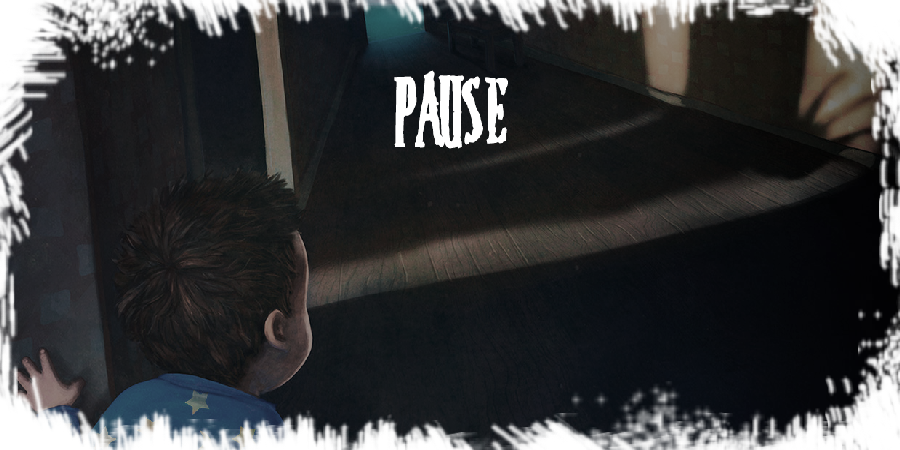
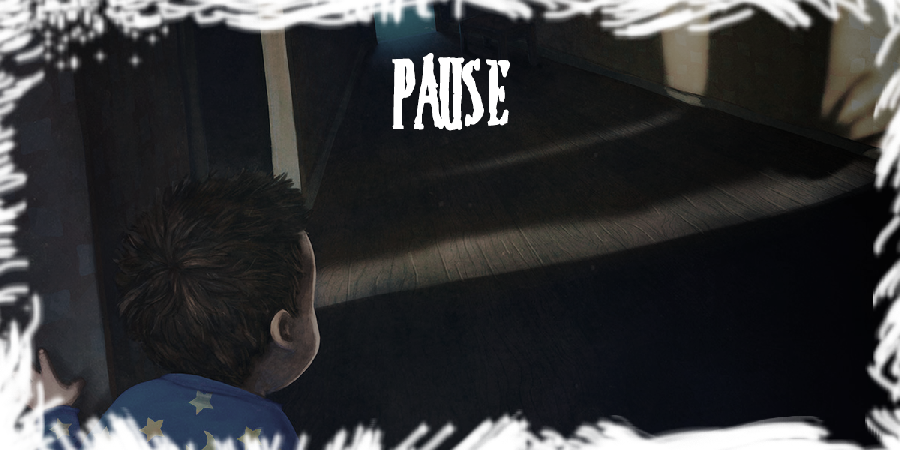
Рефакторинг меню

diff --git a/MyChildhoodNightmare/menu.cpp b/MyChildhoodNightmare/menu.cpp
@@ -2,7 +2,6 @@
 #include <iostream>
 
 static const sf::Vector2f RESOLUTION = { 1366, 768 };
-const sf::Vector2f GAMENAME_POS = { RESOLUTION.x / 2.0f, 220 };
 const float ICON_HORIZONTAL_MARGIN = 35;
 const float ICON_VERTICAL_MARGIN = 3;
 const float MENU_TOP_MARGIN = 400;
@@ -19,14 +18,6 @@ bool Menu::InitMenuItems()
 		gameName.setSize(GAMENAME_SIZE);
 		gameName.setOrigin(GAMENAME_SIZE.x / 2.0f, GAMENAME_SIZE.y);
 		gameName.setTexture(&gameNameTexture);
-		gameName.setPosition(GAMENAME_POS);
-
-		menuWrapper.setSize(RESOLUTION);
-		menuWrapper.setTexture(&mainWrapperTexture);
-
-		pauseWrapper.setSize(PAUSE_MENU_SIZE);
-		pauseWrapper.setOrigin( PAUSE_MENU_SIZE.x / 2.0f, PAUSE_MENU_SIZE.y / 2.0f );
-		pauseWrapper.setTexture(&pauseWrapperTexture);
 
 		menuIcon.setSize(ICON_SIZE);
 		menuIcon.setTexture(&iconTexture);
@@ -46,9 +37,9 @@ bool Menu::InitMenuItems()
 		};
 
 		pauseMenuItems = {
-			sf::Text("Continue", itemsFont, FONT_SIZE),
-			sf::Text("Restart", itemsFont, FONT_SIZE),
-			sf::Text("Main menu", itemsFont, FONT_SIZE)
+			sf::Text("Continue", itemsFont, FONT_SIZE_MEDIUM),
+			sf::Text("Restart", itemsFont, FONT_SIZE_MEDIUM),
+			sf::Text("Main menu", itemsFont, FONT_SIZE_MEDIUM)
 		};
 
 		allItems = {
@@ -59,21 +50,11 @@ bool Menu::InitMenuItems()
 
 		for (auto menuIt = allItems.begin(); menuIt != allItems.end(); menuIt++)
 		{
-			float margin = MENU_TOP_MARGIN;
 			for (auto itemsIt = menuIt->begin(); itemsIt != menuIt->end(); itemsIt++)
 			{
-				float textCenterX = itemsIt->getGlobalBounds().width / 2.0f;
-				float textCenterY = itemsIt->getGlobalBounds().height / 2.0f;
-				itemsIt->setOrigin(textCenterX, textCenterY);
-				itemsIt->setPosition(RESOLUTION.x / 2.0f, margin);
-				itemsIt->setOutlineColor(FONT_OUTLINE_COLOR);
-				margin += MENU_ITEMS_MARGIN;
+				itemsIt->setOrigin(itemsIt->getGlobalBounds().width / 2.0f, itemsIt->getGlobalBounds().height / 2.0f);
 			}
 		}
-
-		currentMenu = CurrentMenu::START;
-		currentButton = 0;
-		buttonsColdown = 0;
 
 		return true;
 	}
@@ -81,33 +62,57 @@ bool Menu::InitMenuItems()
 	return false;
 }
 
-void Menu::Update()
+void Menu::SetMenu(CurrentMenu menu, sf::Vector2f const& point)
 {
+	currentMenu = menu;
+	currentButton = 0;
+	buttonsColdown = 0;
+	menuPos = point;
 
-	auto currItem = allItems[(size_t)currentMenu][currentButton];
-	auto menuItemWidth = currItem.getGlobalBounds().width;
-	auto menuItemCenterY = currItem.getGlobalBounds().height / 2.0f + currItem.getPosition().y - ICON_VERTICAL_MARGIN;
-	float currIconMargin = menuItemWidth / 2.0f + ICON_HORIZONTAL_MARGIN;
-
-	if (currentMenu == CurrentMenu::PAUSE)
+	if (menu != CurrentMenu::PAUSE)
 	{
-		float margin = MENU_TOP_MARGIN;
-		for (auto itemsIt = allItems[(size_t)currentMenu].begin(); itemsIt != allItems[(size_t)currentMenu].end(); itemsIt++)
-		{
-			itemsIt->setPosition(pausePos.x, pausePos.y - RESOLUTION.y / 2.0f + margin);
-			margin += MENU_ITEMS_MARGIN;
-		}
-
-		menuIcon.setPosition({ pausePos.x - currIconMargin , menuItemCenterY });
+		gameName.setPosition(menuPos.x, menuPos.y - RESOLUTION.y / 2.0f + GAMENAME_POS_Y);
 	}
-	else
+
+	float margin = MENU_TOP_MARGIN;
+	for (auto itemsIt = allItems[(size_t)currentMenu].begin(); itemsIt != allItems[(size_t)currentMenu].end(); itemsIt++)
 	{
-		menuIcon.setPosition({ RESOLUTION.x / 2.0f - currIconMargin , menuItemCenterY });
+		itemsIt->setPosition(menuPos.x, menuPos.y - RESOLUTION.y / 2.0f + margin);
+		margin += MENU_ITEMS_MARGIN;
 	}
 }
 
-void Menu::Select(size_t selectMenuId, size_t selectButtonId)
+void Menu::Update()
 {
+	auto currItem = allItems[(size_t)currentMenu][currentButton];
+	auto menuItemWidth = currItem.getGlobalBounds().width;
+	auto menuItemCenterY = currItem.getGlobalBounds().height / 2.0f + currItem.getPosition().y;
+	float currIconMargin = menuItemWidth / 2.0f + ICON_HORIZONTAL_MARGIN;
+
+	menuIcon.setPosition({ menuPos.x - currIconMargin , menuItemCenterY - ICON_VERTICAL_MARGIN });
+
+	if (currentMenu == CurrentMenu::PAUSE)
+	{
+		menuWrapper.setSize(PAUSE_MENU_SIZE);
+		menuWrapper.setTextureRect(sf::IntRect(0, 0, (int)PAUSE_MENU_SIZE.x, (int)PAUSE_MENU_SIZE.y));
+		menuWrapper.setTexture(&pauseWrapperTexture);
+	}
+	else
+	{
+		menuWrapper.setSize(RESOLUTION);
+		menuWrapper.setTextureRect(sf::IntRect(0, 0, (int)RESOLUTION.x, (int)RESOLUTION.y));
+		menuWrapper.setTexture(&mainWrapperTexture);
+	}
+
+	menuWrapper.setOrigin(menuWrapper.getGlobalBounds().width / 2.0f, menuWrapper.getGlobalBounds().height / 2.0f);
+	menuWrapper.setPosition(menuPos);
+}
+
+void Menu::Select(CurrentMenu selectMenu, Difficult selectButton)
+{
+	size_t selectMenuId = (size_t)selectMenu;
+	size_t selectButtonId = (size_t)selectButton;
+
 	for (size_t item = 0; item < allItems[selectMenuId].size() - 1; item++)
 	{
 		if (item != selectButtonId)
@@ -121,16 +126,45 @@ void Menu::Select(size_t selectMenuId, size_t selectButtonId)
 	}
 }
 
-void Menu::Draw(sf::RenderWindow& window)
+void Menu::SwitchButtonUp()
 {
-	if (currentMenu == CurrentMenu::PAUSE)
+	auto currMenu = allItems[(size_t)currentMenu];
+	auto maxItem = currMenu.size() - 1;
+
+	buttonsColdown = 0;
+	if (currentButton == 0)
 	{
-		pauseWrapper.setPosition(pausePos);
-		window.draw(pauseWrapper);
+		currentButton = maxItem;
 	}
 	else
 	{
-		window.draw(menuWrapper);
+		currentButton = currentButton - 1;
+	}
+}
+
+void Menu::SwitchButtonDown()
+{
+	auto currMenu = allItems[(size_t)currentMenu];
+	auto maxItem = currMenu.size() - 1;
+
+	buttonsColdown = 0;
+	if (currentButton == maxItem)
+	{
+		currentButton = 0;
+	}
+	else
+	{
+		currentButton = currentButton + 1;
+	}
+}
+
+
+void Menu::Draw(sf::RenderWindow& window)
+{
+	window.draw(menuWrapper);
+
+	if (currentMenu != CurrentMenu::PAUSE)
+	{
 		window.draw(gameName);
 	}
 

diff --git a/MyChildhoodNightmare/menu.h b/MyChildhoodNightmare/menu.h
@@ -6,11 +6,11 @@
 const unsigned FONT_SIZE = 70; // 35
 const unsigned FONT_SIZE_MEDIUM = 55;
 const unsigned FONT_SIZE_MINI = 40;
-const sf::Color FONT_OUTLINE_COLOR = sf::Color(145, 131, 92);
 const sf::Color UNSELECTED_ITEM_COLOR = sf::Color(30, 30, 30);
 const sf::Color ITEM_COLOR = sf::Color::White;
 const sf::Vector2f GAMENAME_SIZE = { 328, 180 };
-const sf::Vector2f PAUSE_MENU_SIZE = { 1200, 600 };
+const float GAMENAME_POS_Y = 240;
+const sf::Vector2f PAUSE_MENU_SIZE = { 900, 450 };
 const sf::Vector2f ICON_SIZE = { 37 , 45 };
 const float BUTTONS_COLDOWN = 0.18f;
 
@@ -20,6 +20,14 @@ enum struct CurrentMenu
 	DIFFICULT,
 	PAUSE,
 };
+
+enum struct Difficult
+{
+	EASY = 0,
+	NORMAL,
+	HARD,
+};
+
 
 struct Menu
 {
@@ -32,7 +40,6 @@ struct Menu
 	sf::Texture iconTexture;
 	sf::RectangleShape gameName;
 	sf::RectangleShape menuWrapper;
-	sf::RectangleShape pauseWrapper;
 	sf::RectangleShape menuIcon;
 	sf::Text startButton;
 	std::vector<sf::Text> mainMenuItems;
@@ -40,12 +47,16 @@ struct Menu
 	std::vector<sf::Text> difficultMenuItems;
 	std::vector<std::vector<sf::Text>> allItems;
 	float buttonsColdown;
-	sf::Vector2f pausePos;
+	sf::Vector2f menuPos;
 
 	bool InitMenuItems();
 
+	void SetMenu(CurrentMenu menu, sf::Vector2f const& point);
+
 	void Update();
-	void Select(size_t selectMenuId, size_t selectButton);
+	void Select(CurrentMenu selectMenu, Difficult selectButton);
+	void SwitchButtonUp();
+	void SwitchButtonDown();
 
 	void Draw(sf::RenderWindow& window);
 };

diff --git a/MyChildhoodNightmare/game.h b/MyChildhoodNightmare/game.h
@@ -14,13 +14,6 @@ const sf::Vector2f RESOLUTION = { 1366, 768 };
 const float CAMERA_VERTICAL_MARGIN = 80;
 const sf::Color BACKGROUND_COLOR = sf::Color(20, 12, 28);
 
-enum struct Difficult
-{
-	EASY = 0,
-	NORMAL,
-	HARD,
-};
-
 struct GameScene
 {
 	std::function<void(sf::RenderWindow& window, sf::Event& event)> toHandle;

diff --git a/MyChildhoodNightmare/player.cpp b/MyChildhoodNightmare/player.cpp
@@ -55,15 +55,3 @@ void Player::Attack()
 		break;
 	}
 }
-
-
-void Player::Clear()
-{
-
-	for (auto bulletsIt = bullets.begin(); bulletsIt != bullets.end();)
-	{
-		Bullet* bullet = *bulletsIt;
-		bulletsIt = bullets.erase(bulletsIt);
-		delete(bullet);
-	}
-}

diff --git a/MyChildhoodNightmare/main.cpp b/MyChildhoodNightmare/main.cpp
@@ -106,7 +106,6 @@ void InitMenuScene(Game& game)
 		game.ControlMenu(window, event);
 	};
 	game.menuScene.onUpdate = [&]() {
-		game.camera.reset(sf::FloatRect(0, 0, RESOLUTION.x, RESOLUTION.y));
 		game.UpdateColdowns();
 		game.menu.Update();
 	};

diff --git a/MyChildhoodNightmare/player.h b/MyChildhoodNightmare/player.h
@@ -20,5 +20,4 @@ struct Player :Character
 
 	bool InitPlayer(Object const& spawnObj);
 	void Attack();
-	void Clear();
 };
